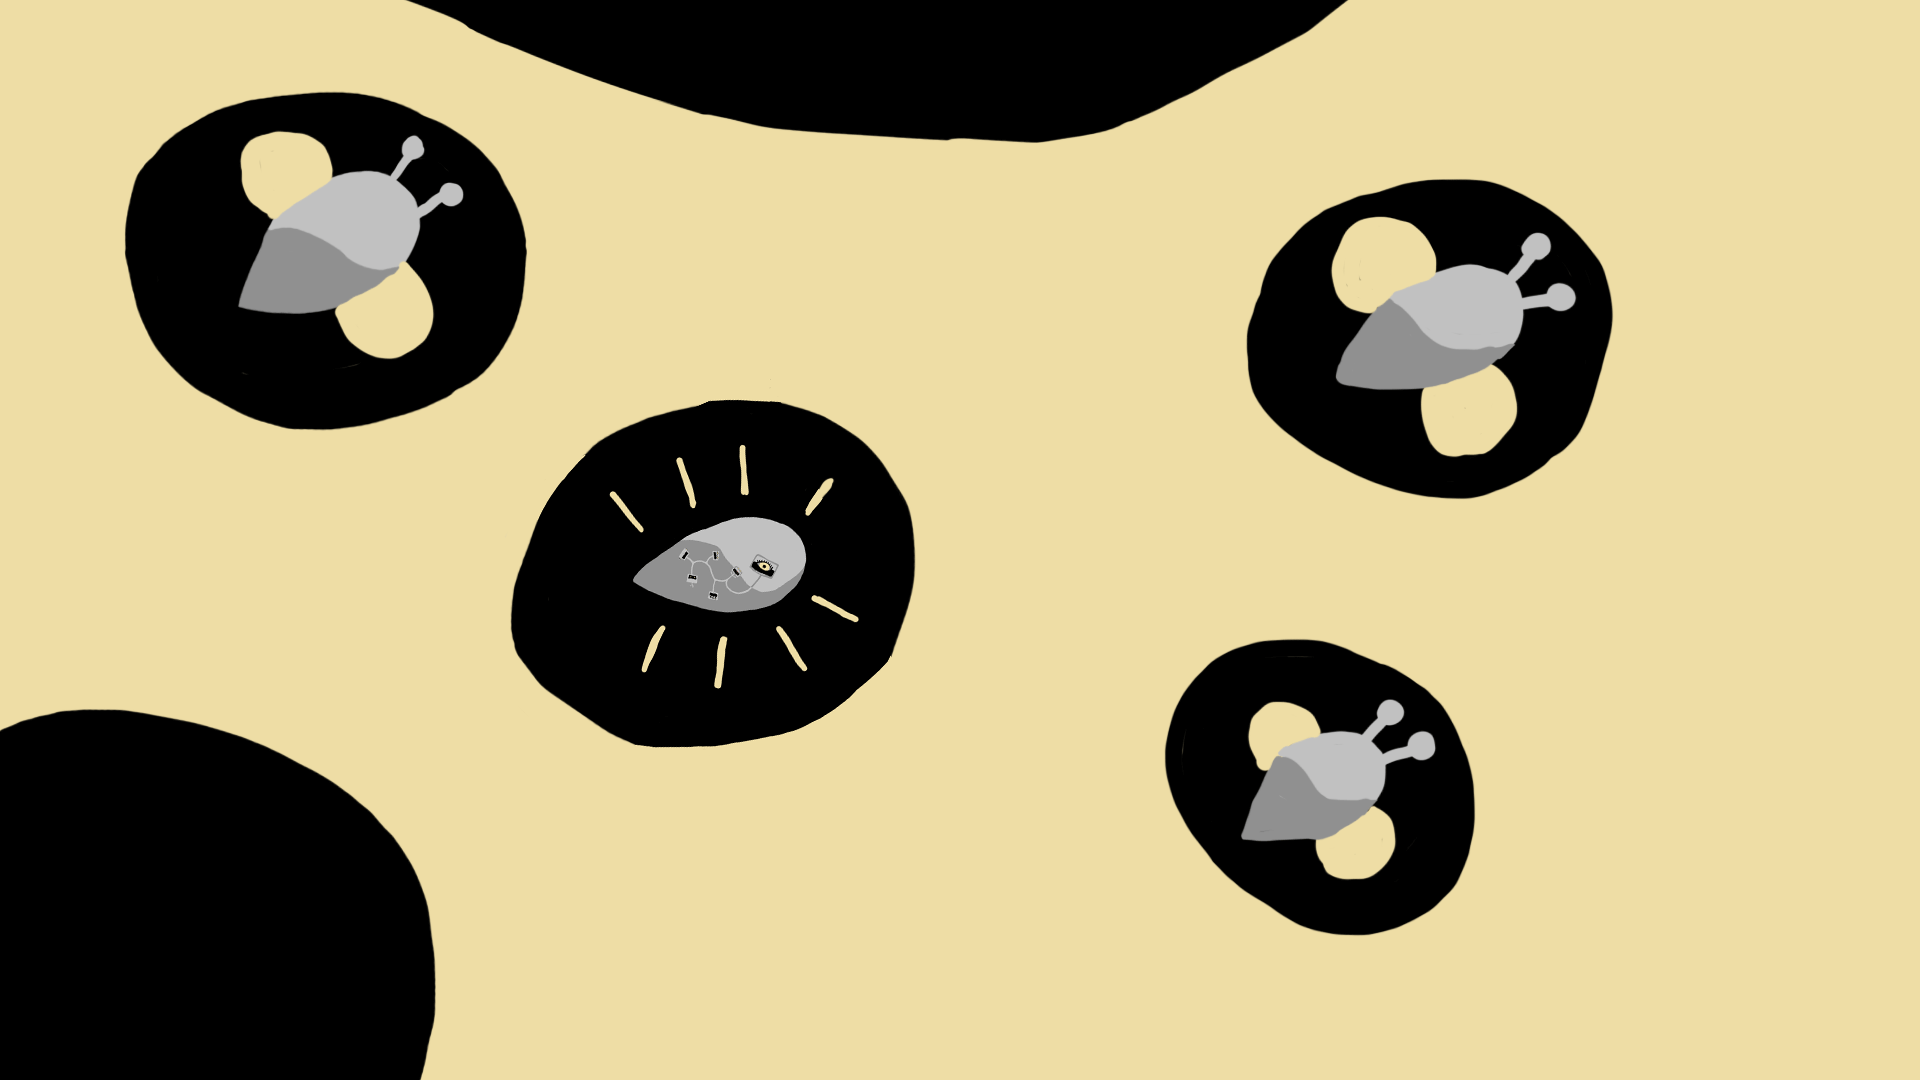
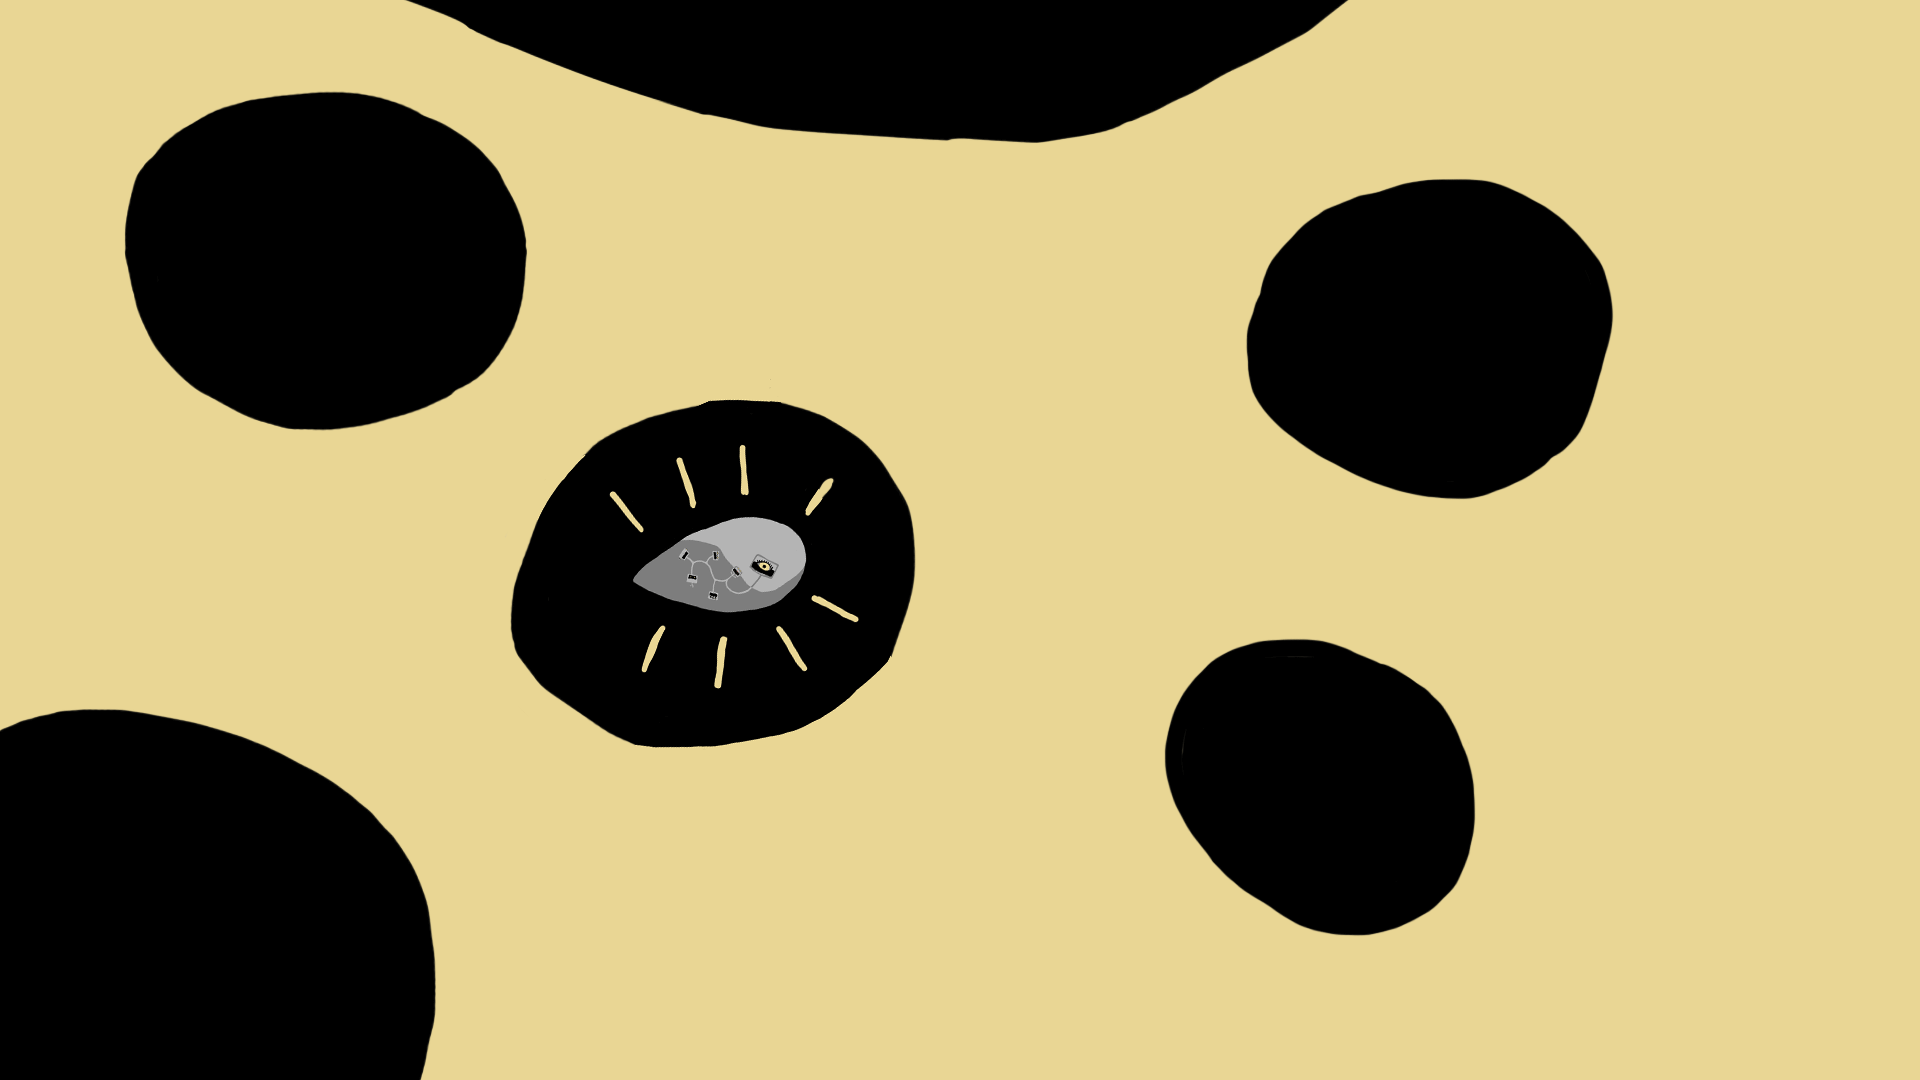
Add animation to flies
TODO: better transition from image with non-animated flies.

Changed region(s): [[0.6875, 0.1833, 0.8125, 0.4278], [0.125, 0.1222, 0.25, 0.3361], [0.625, 0.6417, 0.75, 0.825]]

diff --git a/src/holes.js b/src/holes.js
@@ -21,11 +21,33 @@
 
       this.imageElement = document.createElement('img');
       Loader.load('res/holes.png', this.imageElement, () => null);
+      this.fly1 = document.createElement('img');
+      Loader.load('res/fly1.png', this.fly1, () => null);
+      this.fly2 = document.createElement('img');
+      Loader.load('res/fly2.png', this.fly2, () => null);
+      this.fly3 = document.createElement('img');
+      Loader.load('res/fly3.png', this.fly3, () => null);
     }
 
     update(frame) {
       super.update(frame);
       this.frame = frame;
+
+      this.flyPosition1 = {
+        x: 220 + Math.sin(frame / 20) * 10 + 255/2,
+        y: 120 + Math.cos(frame / 12) * 10 + 268/2,
+        rotation: Math.sin(frame / 40) / 4,
+      };
+      this.flyPosition2 = {
+        x: 1330 + Math.sin(frame / 10) * 10 + 261/2,
+        y: 220 + Math.cos(frame / 5) * 8 + 249/2,
+        rotation: Math.sin(frame / 50) / 2,
+      };
+      this.flyPosition3 = {
+        x: 1200 + Math.sin(frame / 15) * 12 + 264/2,
+        y: 665 + Math.cos(frame / 10) * 10 + 239/2,
+        rotation: 3.5 + frame / 100,
+      };
     }
 
     resize() {
@@ -36,9 +58,26 @@
     render() {
       this.ctx.save();
       this.ctx.scale(16 * GU / 1920, 16 * GU /  1920);
-      this.ctx.translate(1920 / 2, 1080 / 2);
 
-      this.ctx.drawImage(this.imageElement, -1920 / 2, -1080 / 2);
+      this.ctx.drawImage(this.imageElement, 0, 0);
+
+      this.ctx.save();
+      this.ctx.translate(this.flyPosition1.x, this.flyPosition1.y);
+      this.ctx.rotate(this.flyPosition1.rotation);
+      this.ctx.drawImage(this.fly1, -255/2, -268/2);
+      this.ctx.restore();
+
+      this.ctx.save();
+      this.ctx.translate(this.flyPosition2.x, this.flyPosition2.y);
+      this.ctx.rotate(this.flyPosition2.rotation);
+      this.ctx.drawImage(this.fly2, -261/2, -249/2);
+      this.ctx.restore();
+
+      this.ctx.save();
+      this.ctx.translate(this.flyPosition3.x, this.flyPosition3.y);
+      this.ctx.rotate(this.flyPosition3.rotation);
+      this.ctx.drawImage(this.fly3, -264/2, -239/2);
+      this.ctx.restore();
 
       this.ctx.restore();
     }
